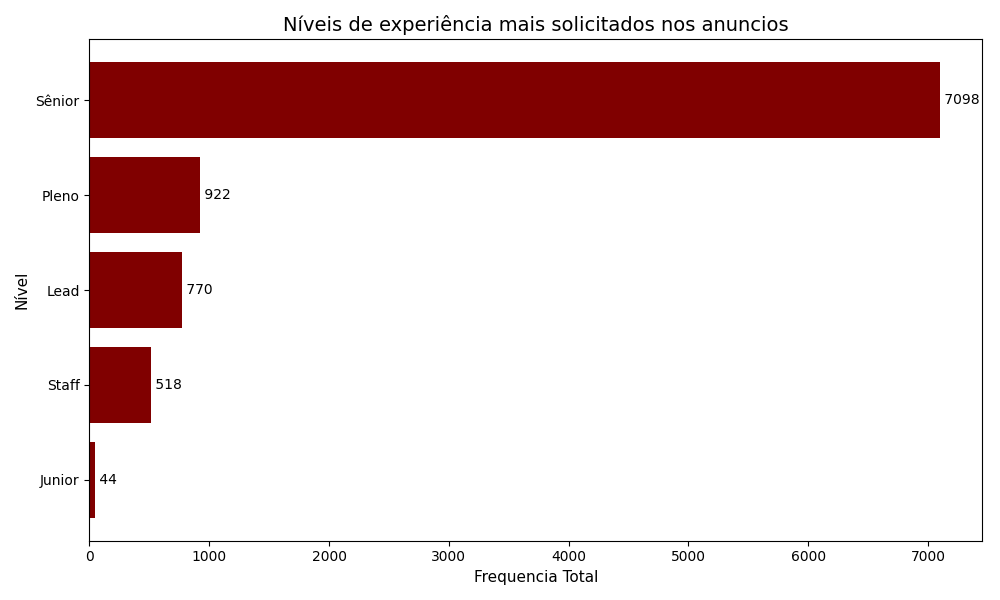
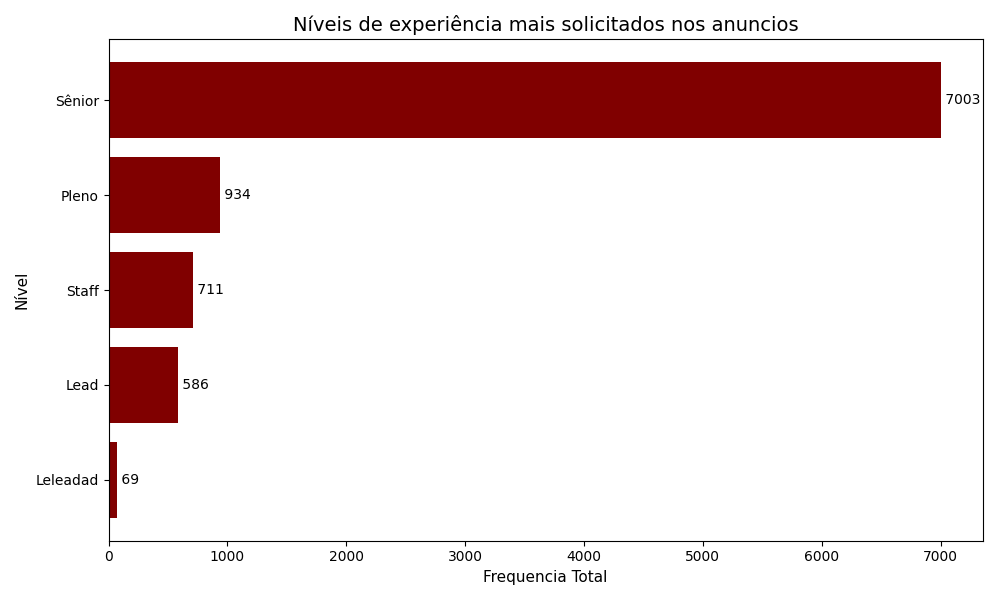
ajustes

diff --git a/src/bert.py b/src/bert.py
@@ -1,78 +1,29 @@
 import pandas as pd
 import ast
 import os
-from collections import Counter
 import matplotlib.pyplot as plt
 import kagglehub
 from sentence_transformers import SentenceTransformer, util
+from sklearn.cluster import KMeans
+from sklearn.decomposition import PCA
+from sklearn.metrics import silhouette_score
+import seaborn as sns
+from sklearn.preprocessing import MultiLabelBinarizer
+import numpy as np
 
+# 1. Configurações Iniciais e Modelos
 model = SentenceTransformer('all-MiniLM-L6-v2')
 
 DICIONARIO_LINGUAGENS = {
-    'python': 'Python', 
-    'java': 'Java', 
-    'javascript': 'JavaScript', 
-    'js': 'JavaScript',
-    'typescript': 'TypeScript', 
-    'ts': 'TypeScript',
-    'TypeScript': 'TypeScript',
-    'c++': 'C++', 
-    'cpp': 'C++',
-    'c#': 'C#', 
-    'csharp': 'C#',
-    'c': 'C', 
-    'php': 'PHP', 
-    'ruby': 'Ruby', 
-    'go': 'Go', 
-    'golang': 'Go',
-    'swift': 'Swift', 
-    'kotlin': 'Kotlin', 
-    'r': 'R', 
-    'matlab': 'MATLAB', 
-    'scala': 'Scala', 
-    'perl': 'Perl',
-    'shell': 'Shell', 
-    'bash': 'Bash', 
-    'haskell': 'Haskell', 
-    'lua': 'Lua', 
-    'dart': 'Dart', 
-    'vba': 'VBA', 
-    'groovy': 'Groovy',
-    'rust': 'Rust', 
-    'sql': 'SQL', 
-    'pl/sql': 'PL/SQL', 
-    'nosql': 'NoSQL', 
-    'assembly': 'Assembly', 
-    'cobol': 'COBOL',
-    'fortran': 'Fortran', 
-    'elixir': 'Elixir', 
-    'erlang': 'Erlang', 
-    'pascal': 'Pascal', 
-    'delphi': 'Delphi', 
-    'node': 'Node.js', 
-    'node.js': 'Node.js', 
-    'nodejs': 'Node.js',
-    'node js': 'Node.js',
+    'python': 'Python', 'java': 'Java', 'javascript': 'JavaScript', 'js': 'JavaScript',
+    'typescript': 'TypeScript', 'ts': 'TypeScript', 'node': 'Node.js', 'sql': 'SQL',
+    'c#': 'C#', 'csharp': 'C#', 'go': 'Go', 'golang': 'Go', 'ruby': 'Ruby', 'c++': 'C++'
 }
 
 SINONIMOS_TECNOLOGIA = {
-    'amazon web services': 'AWS',
-    'amazon cloud': 'AWS',
-    'aws': 'AWS',
-    'google cloud platform': 'GCP',
-    'gcp': 'GCP',
-    'google cloud': 'GCP',
-    'microsoft azure': 'Azure',
-    'azure': 'Azure',
-    'react.js': 'React',
-    'reactjs': 'React',
-    'react js': 'React',
-    'react': 'React',
-    'k8s': 'Kubernetes',
-    'kubernetes': 'Kubernetes',
-    'github': 'Git',
-    'gitlab': 'Git',
-    'git': 'Git'
+    'aws': 'AWS', 'amazon web services': 'AWS', 'gcp': 'GCP', 'google cloud': 'GCP',
+    'azure': 'Azure', 'react': 'React', 'reactjs': 'React', 'k8s': 'Kubernetes',
+    'kubernetes': 'Kubernetes', 'docker': 'Docker', 'git': 'Git', 'spark': 'Spark'
 }
 
 ANCORAS = {
@@ -80,17 +31,11 @@ ANCORAS = {
     "Habilidades": model.encode("soft skill human behavior social interaction management mindset adaptability communication teamwork")
 }
 
-EXCLUSAO = {'software engineering', 'software development', 'engineering', 'development', 'design', 'architecture'}
-
 def classificar_hibrido(skill):
     s_lower = skill.lower().strip()
+    if len(s_lower) < 2: return None, None
+    if s_lower in DICIONARIO_LINGUAGENS: return "Linguagens", DICIONARIO_LINGUAGENS[s_lower]
     
-    if s_lower in EXCLUSAO or len(s_lower) < 2:
-        return None, None
-
-    if s_lower in DICIONARIO_LINGUAGENS:
-        return "Linguagens", DICIONARIO_LINGUAGENS[s_lower]
-
     embedding = model.encode(s_lower)
     sim_tec = util.cos_sim(embedding, ANCORAS["Tecnologias"]).item()
     sim_hab = util.cos_sim(embedding, ANCORAS["Habilidades"]).item()
@@ -98,40 +43,73 @@ def classificar_hibrido(skill):
     if sim_tec > sim_hab and sim_tec > 0.30:
         nome_padronizado = SINONIMOS_TECNOLOGIA.get(s_lower, skill.capitalize())
         return "Tecnologias", nome_padronizado
-    elif sim_hab > sim_tec and sim_hab > 0.30:
-        return "Habilidades", skill.capitalize()
-    
     return None, None
 
+# 2. Carga e Processamento
 path = kagglehub.dataset_download("yazeedfares/software-engineering-jobs-dataset")
 df = pd.read_csv(os.path.join(path, "postings2.csv"))
 
-df['skills_list'] = df['job_skills'].apply(lambda x: [s.lower().strip() for s in ast.literal_eval(x)] if pd.notna(x) else [])
-contador_bruto = Counter([s for sublist in df['skills_list'] for s in sublist])
+def processar_vaga(job_skills_str):
+    if pd.isna(job_skills_str): return []
+    try:
+        skills = ast.literal_eval(job_skills_str)
+        limpas = []
+        for s in skills:
+            cat, nome = classificar_hibrido(s)
+            if cat in ["Linguagens", "Tecnologias"]:
+                limpas.append(nome)
+        return list(set(limpas))
+    except: return []
 
-stats = {"Linguagens": Counter(), "Tecnologias": Counter(), "Habilidades": Counter()}
+df['tech_profile'] = df['job_skills'].apply(processar_vaga)
+df_filtered = df[df['tech_profile'].map(len) >= 2].copy().reset_index(drop=True)
 
-for skill, freq in contador_bruto.most_common(600):
-    cat, nome = classificar_hibrido(skill)
-    if cat:
-        stats[cat][nome] += freq
+# 3. Vetorização (Top 100 Skills)
+all_techs = [item for sublist in df_filtered['tech_profile'] for item in sublist]
+top_techs = [t[0] for t in pd.Series(all_techs).value_counts().head(100).items()]
+df_filtered['tech_profile_filtered'] = df_filtered['tech_profile'].apply(lambda x: [s for s in x if s in top_techs])
 
-config_graficos = {
-    "Linguagens": {"cor": "#6a1b9a", "arquivo": "linguagens.png", "nomeGrafico": 'Linguagens mais Solicitadas no Anuncios'},
-    "Tecnologias": {"cor": "#2e7d32", "arquivo": "tecnologias.png", "nomeGrafico": 'Tecnologias mais Solicitadas no Anuncios'},
-    "Habilidades": {"cor": "#ef6c00", "arquivo": "habilidades.png", "nomeGrafico": 'Habilidades mais Solicitadas no Anuncios'}
-}
+mlb = MultiLabelBinarizer(classes=top_techs)
+X = mlb.fit_transform(df_filtered['tech_profile_filtered'])
+df_matrix = pd.DataFrame(X, columns=mlb.classes_)
 
-for cat, dados in stats.items():
-    plt.figure(figsize=(10, 8))
-    
-    df_plot = pd.DataFrame(dados.most_common(10), columns=['Skill', 'Freq']).iloc[::-1]
-    
-    if not df_plot.empty:
-        plt.barh(df_plot['Skill'], df_plot['Freq'], color=config_graficos[cat]["cor"])
-        plt.title(f'{config_graficos[cat]['nomeGrafico']}', fontsize=14)
-        plt.xlabel('Frequência (Número de menções)')
-        plt.tight_layout()
-        
-        plt.savefig(config_graficos[cat]["arquivo"], dpi=300)
-    plt.close()
+# 4. Clustering e PCA
+n_clusters = 5
+kmeans = KMeans(n_clusters=n_clusters, random_state=42, n_init=10)
+df_filtered['cluster'] = kmeans.fit_predict(df_matrix)
+
+pca = PCA(n_components=2)
+coords = pca.fit_transform(df_matrix)
+df_filtered['pca_x'], df_filtered['pca_y'] = coords[:, 0], coords[:, 1]
+
+# 5. Cálculo do Outlier (Distância Euclidiana do Centro [0,0])
+df_filtered['distancia_centro'] = np.sqrt(df_filtered['pca_x']**2 + df_filtered['pca_y']**2)
+vaga_extrema = df_filtered.loc[df_filtered['distancia_centro'].idxmax()]
+
+# --- RELATÓRIO FINAL ---
+print(f"\nSilhouette Score: {silhouette_score(df_matrix, df_filtered['cluster']):.3f}")
+
+print("\n--- ANÁLISE DE PAPÉIS LATENTES ---")
+for i in range(n_clusters):
+    is_in_cluster = (df_filtered['cluster'] == i)
+    top_skills = df_matrix.loc[is_in_cluster].sum().sort_values(ascending=False).head(5).index.tolist()
+    top_titles = df_filtered.loc[is_in_cluster, 'job_title'].value_counts().head(3).index.tolist()
+    print(f"\nCluster {i}:")
+    print(f" > Skills Dominantes: {', '.join(top_skills)}")
+    print(f" > Títulos comuns: {', '.join(top_titles)}")
+
+print("\n--- EXEMPLO DE VAGA DE ESPECIALIZAÇÃO EXTREMA (OUTLIER) ---")
+print(f"Título: {vaga_extrema['job_title']}")
+print(f"Empresa: {vaga_extrema['company']}")
+print(f"Skills Técnicas: {vaga_extrema['tech_profile_filtered']}")
+print(f"Cluster: {vaga_extrema['cluster']}")
+print(f"Coordenadas PCA: ({vaga_extrema['pca_x']:.2f}, {vaga_extrema['pca_y']:.2f})")
+
+plt.figure(figsize=(12, 8))
+sns.scatterplot(data=df_filtered, x='pca_x', y='pca_y', hue='cluster', palette='viridis', alpha=0.5)
+
+plt.scatter(vaga_extrema['pca_x'], vaga_extrema['pca_y'], color='red', marker='X', s=200, label='Outlier Extremo')
+plt.title('Mapa de Papéis Latentes com Identificação de Outlier')
+plt.legend()
+plt.savefig('cluster_map_outlier.png', dpi=300)
+print("\nGráfico 'cluster_map_outlier.png' salvo com sucesso.")

diff --git a/src/levels.py b/src/levels.py
@@ -10,8 +10,8 @@ import re
 dicionario = {
     'mid senior': 'Sênior', 'mid-senior': 'Sênior', 'sr': 'Sênior', 'Sênior': 'Sênior', 'senior': 'Sênior',
     'mid': 'Pleno', 'pleno': 'Pleno', 'associate': 'Pleno', 'mid-level': 'Pleno',
-    'junior': 'junior', 'jr': 'junior', 'entry-level': 'junior', 'estágio': 'junior', 'estagiário': 'junior',
-    'lead': 'lead', 'tech lead': 'lead', 'tech-lead': 'lead', 'team lead': 'lead','team-lead': 'lead', 'chief': 'lead', 'chefe': 'lead','manager': 'lead',
+    'junior': 'Júnior', 'jr': 'Júnior', 'entry-level': 'Júnior', 'estágio': 'Júnior', 'estagiário': 'Júnior',
+    'lead': 'Lead', 'tech lead': 'Lead', 'tech-lead': 'Lead', 'team lead': 'Lead','team-lead': 'Lead', 'chief': 'Lead', 'chefe': 'Lead','manager': 'leLeadad',
     'diretor': 'director', 'director': 'director',
     'principal': 'staff', 'staff': 'staff',
     'specialist': 'specialist',
@@ -19,6 +19,7 @@ dicionario = {
 }
 
 TERMOS_NIVEL_BUSCA = set(dicionario.keys())
+PADRAO_DIPLOMA = r"(bachelor|degree|university|graduate|master|phd|education|engenh|superior|formação)"
 
 path = kagglehub.dataset_download("yazeedfares/software-engineering-jobs-dataset")
 csv_file = os.path.join(path, "postings2.csv")
@@ -45,6 +46,15 @@ def obter_nivel_normalizado(row):
 
 df['nivel_final_normalizado'] = df.apply(obter_nivel_normalizado, axis=1)
 
+def verificar_escolaridade(texto):
+    if not isinstance(texto, str): return "Não Mencionado"
+    if re.search(PADRAO_DIPLOMA, texto.lower()):
+        return "Exige Diploma"
+    return "Não Mencionado"
+
+coluna_texto = 'job_summary' if 'job_summary' in df.columns else 'job_description'
+df['exige_diploma'] = df[coluna_texto].apply(verificar_escolaridade)
+
 contador_normalizado = Counter(df['nivel_final_normalizado'])
 
 ranking_niveis_df = pd.DataFrame(contador_normalizado.items(), columns=['Nível', 'Frequencia'])
@@ -62,3 +72,36 @@ plt.tight_layout()
 output_filename = 'niveis.png'
 plt.savefig(output_filename)
 plt.close()
+
+niveis_principais = ['Júnior', 'Pleno', 'Sênior', 'Lead']
+df_filtrado = df[df['nivel_final_normalizado'].isin(niveis_principais)].copy()
+
+# Criar tabela de porcentagens
+analise_esc = df_filtrado.groupby(['nivel_final_normalizado', 'exige_diploma']).size().unstack(fill_value=0)
+analise_pct = analise_esc.div(analise_esc.sum(axis=1), axis=0) * 100
+
+# Ordenar logicamente
+ordem_logica = [n for n in niveis_principais if n in analise_pct.index]
+analise_pct = analise_pct.reindex(ordem_logica)
+
+# 6. Geração do Gráfico
+plt.figure(figsize=(10, 6))
+# Vermelho para 'Não Mencionado', Verde para 'Exige Diploma'
+ax = analise_pct.plot(kind='bar', stacked=True, color=['#e74c3c', '#2ecc71'], figsize=(10, 6))
+
+plt.title('Exigência de Escolaridade por Nível de Experiência', fontsize=14)
+plt.ylabel('Porcentagem de Vagas (%)')
+plt.xlabel('Nível Normalizado')
+plt.xticks(rotation=0)
+plt.legend(title='Escolaridade', bbox_to_anchor=(1.05, 1), loc='upper left')
+
+# Adicionar rótulos de porcentagem dentro das barras
+for p in ax.patches:
+    h = p.get_height()
+    if h > 5: # Só escreve se a fatia for maior que 5%
+        ax.annotate(f'{h:.1f}%', (p.get_x() + p.get_width()/2, p.get_y() + h/2), 
+                    ha='center', va='center', color='white', fontweight='bold', fontsize=10)
+
+plt.tight_layout()
+plt.savefig('escolaridade_por_nivel.png', dpi=300)
+plt.show()
